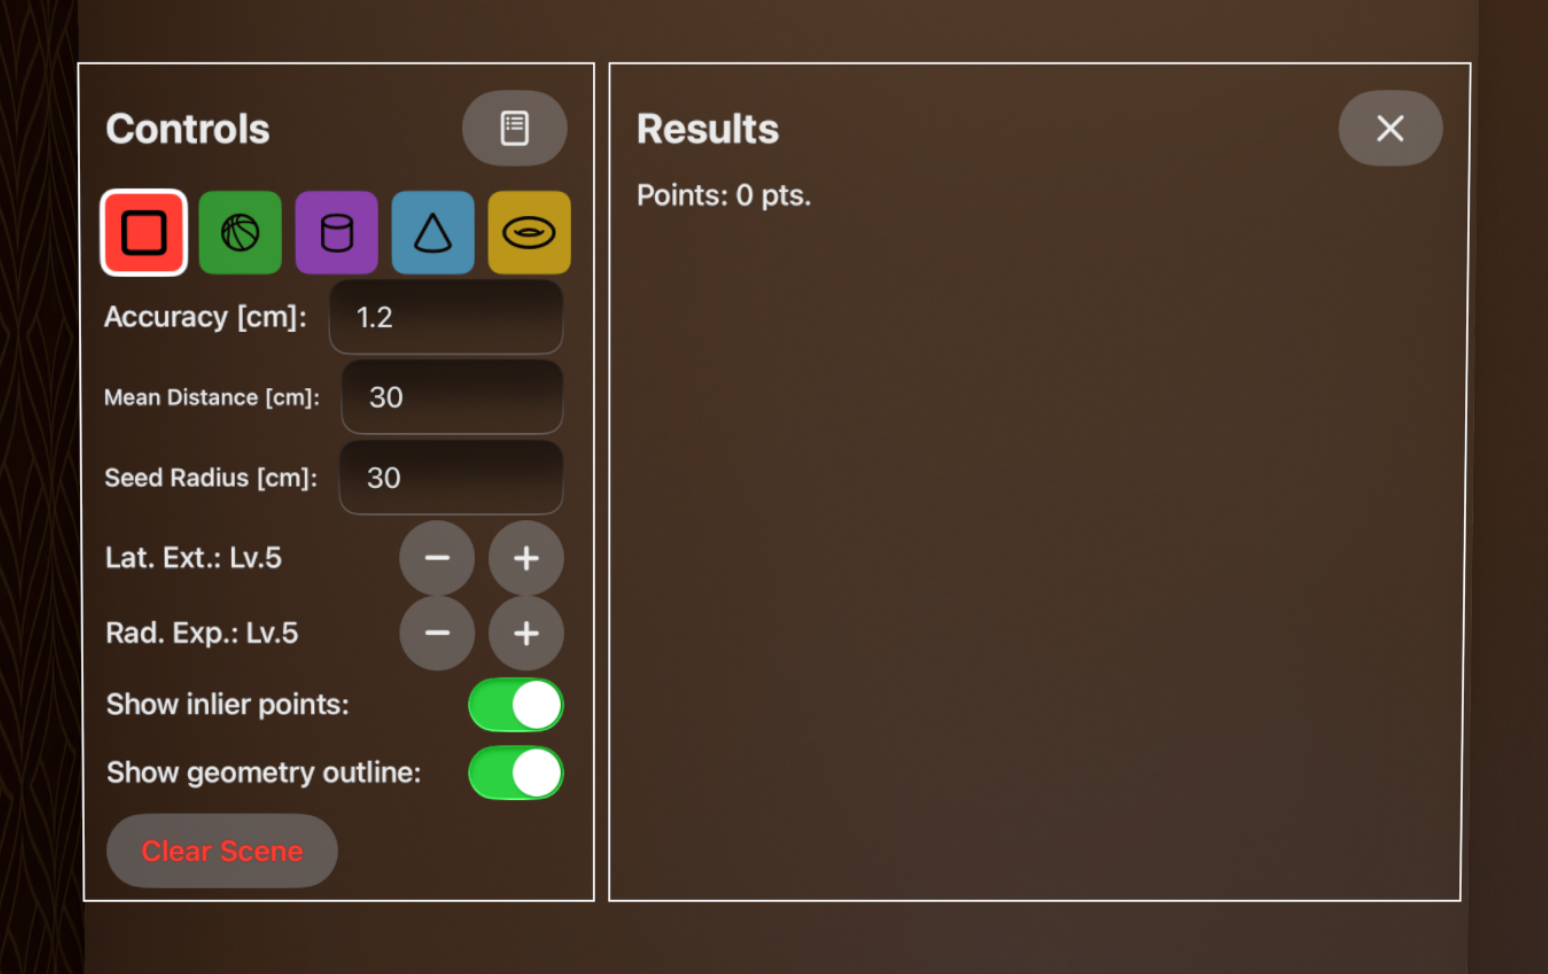
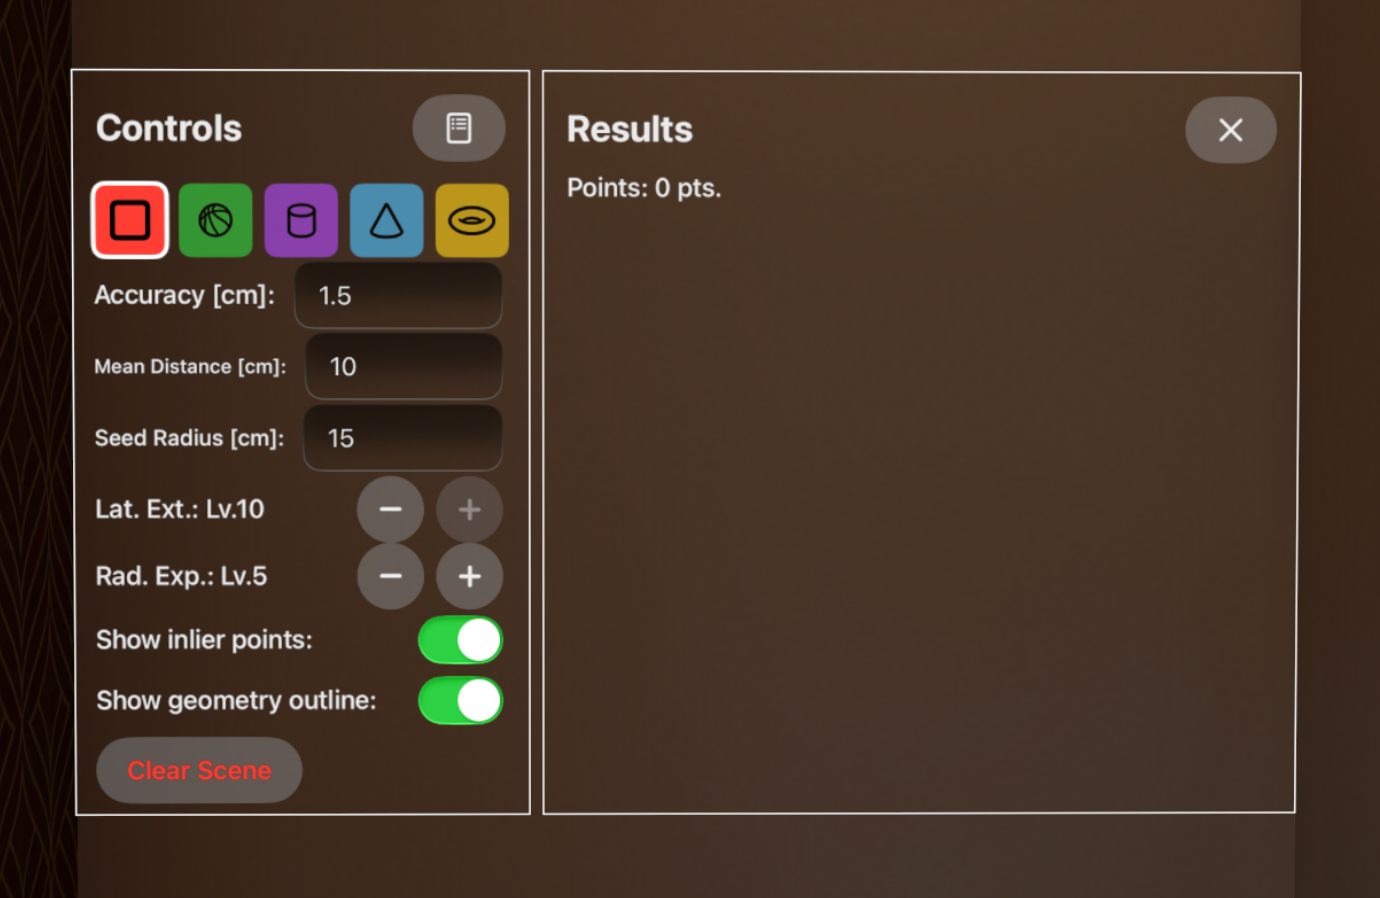
Replace panels.png with one with preset values applied

Changed region(s): [[0.0312, 0.0624, 0.9659, 0.9354], [0.4051, 0.1871, 0.5297, 0.2183], [0.0623, 0.5612, 0.187, 0.5924]]

diff --git a/FindSurfaceST-visionOS/Views/PanelView.swift b/FindSurfaceST-visionOS/Views/PanelView.swift
@@ -31,7 +31,10 @@ import FindSurface_visionOS
         .environment(AppState())
         .environment(FindSurface.instance)
         .onAppear {
-            FindSurface.instance.measurementAccuracy = 0.012
-            FindSurface.instance.meanDistance = 0.30
+            FindSurface.instance.measurementAccuracy = 0.015
+            FindSurface.instance.meanDistance = 0.10
+            FindSurface.instance.seedRadius = 0.15
+            FindSurface.instance.lateralExtension = .lv10
+            FindSurface.instance.radialExpansion = .lv5
         }
 }
